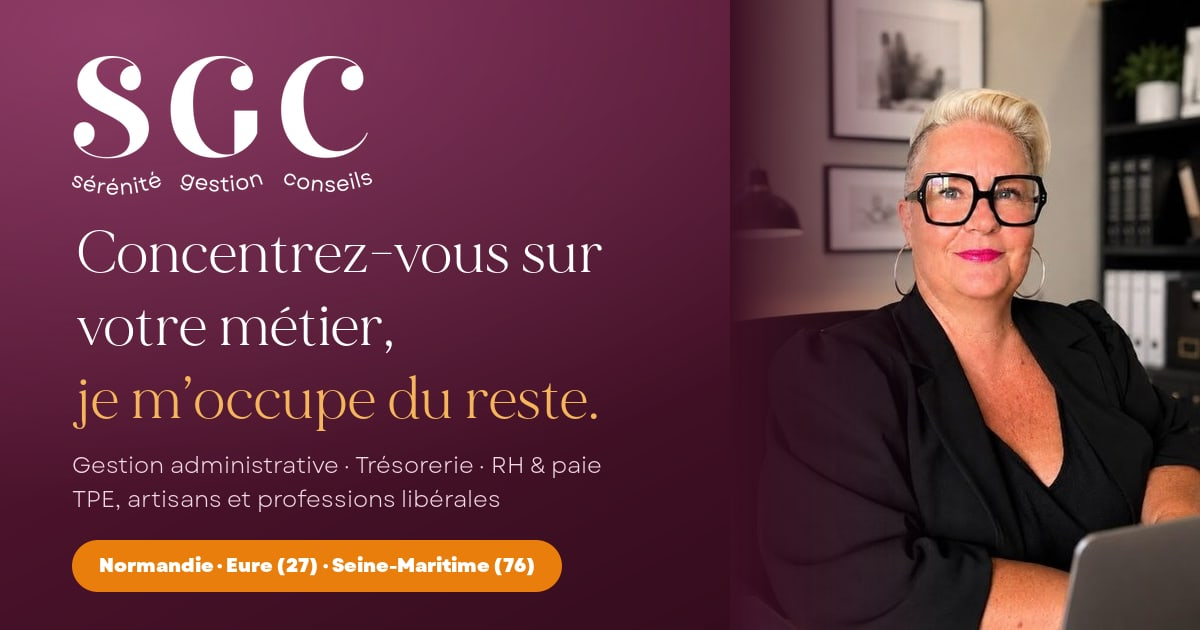
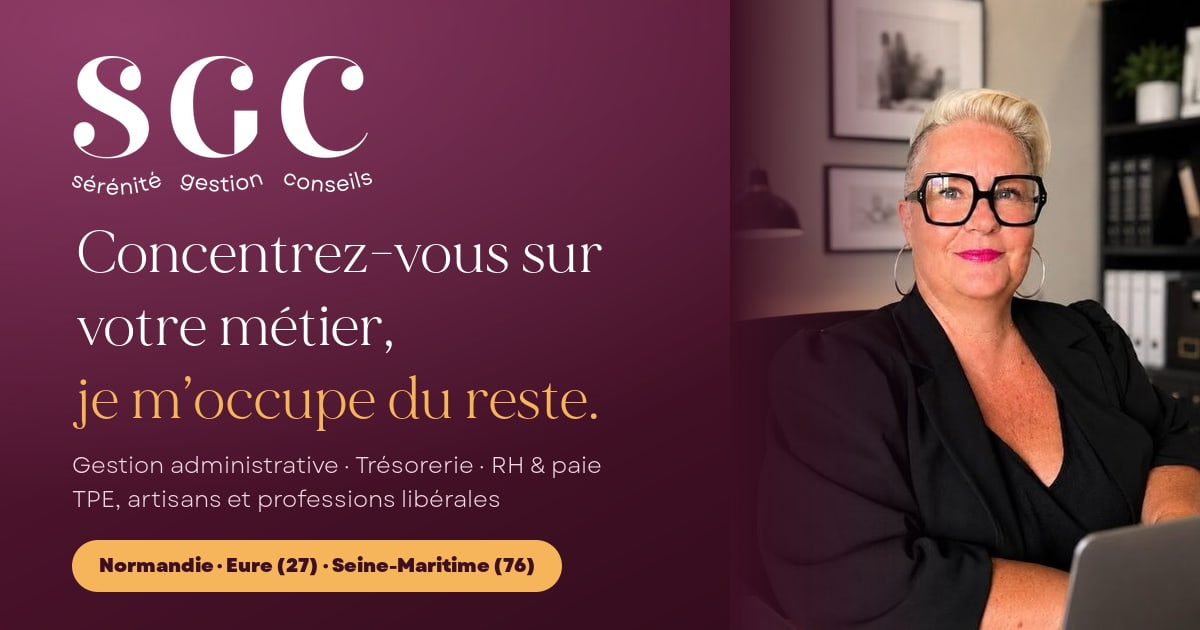
Charte adoucie : prune dominant, orange en touches, suppression du vert
- Boutons principaux en prune, variante abricot sur fonds sombres
- Halos, auroras et dégradés orange atténués (rose/abricot doux)
- Cas clients, coches et étiquettes : vert remplacé par prune/rose
- Boutons de partage monochromes prune
- Image de partage et README mis à jour

Changed region(s): [[0.0617, 0.8444, 0.4933, 0.9651]]

diff --git a/src/styles/global.css b/src/styles/global.css
@@ -76,7 +76,7 @@
   --terra-300: #f6b55b; /* abricot de la charte */
   --terra-200: #fbd9a8;
   --terra-100: #fdeedb;
-  --accent-text: #c96608; /* orange lisible pour les grands titres */
+  --accent-text: #b45a05; /* orange lisible pour les grands titres */
 
   /* Rose (décoration) */
   --rose-200: #f4c6e0;
@@ -92,8 +92,8 @@
   --muted: #76606c;
   --line: #f0e1d8;
   --line-soft: #f6ece5;
-  --success: #23855a;
-  --success-bg: #e5f4ec;
+  --success: #7b2550; /* prune : remplace le vert */
+  --success-bg: #fbe8f2; /* rose très clair */
   --danger: #b4322a;
   --danger-bg: #fbe9e7;
 
@@ -107,7 +107,7 @@
   --shadow-sm: 0 1px 2px rgb(42 9 22 / 0.05), 0 4px 14px -6px rgb(42 9 22 / 0.08);
   --shadow-md: 0 14px 34px -16px rgb(42 9 22 / 0.2);
   --shadow-lg: 0 28px 60px -28px rgb(97 25 58 / 0.38), 0 8px 20px -12px rgb(42 9 22 / 0.12);
-  --shadow-terra: 0 14px 30px -12px rgb(233 126 13 / 0.55);
+  --shadow-terra: 0 14px 30px -14px rgb(97 25 58 / 0.55);
 
   /* Mouvement */
   --ease-out: cubic-bezier(0.22, 1, 0.36, 1);
@@ -335,10 +335,10 @@
     letter-spacing: 0.005em;
     color: #fff;
     white-space: nowrap;
-    background: linear-gradient(135deg, var(--terra-500), var(--terra-700));
+    background: linear-gradient(135deg, var(--blue-600), var(--blue-800));
     box-shadow:
       var(--shadow-terra),
-      inset 0 1px 0 rgb(255 255 255 / 0.25);
+      inset 0 1px 0 rgb(255 255 255 / 0.18);
     transition:
       transform 0.45s var(--ease-out),
       box-shadow 0.45s var(--ease-out),
@@ -362,8 +362,8 @@
   .btn:hover {
     transform: translateY(-2px);
     box-shadow:
-      0 20px 36px -14px rgb(180 90 5 / 0.6),
-      inset 0 1px 0 rgb(255 255 255 / 0.25);
+      0 20px 36px -16px rgb(97 25 58 / 0.6),
+      inset 0 1px 0 rgb(255 255 255 / 0.18);
   }
   .btn:hover::after {
     transform: translateX(120%);
@@ -403,6 +403,19 @@
     color: var(--blue-700);
     border-color: var(--blue-700);
     box-shadow: 0 16px 30px -16px rgb(97 25 58 / 0.4);
+  }
+  /* Bouton doux (abricot) pour les fonds prune */
+  .btn--soft {
+    color: var(--blue-900);
+    background: var(--terra-300);
+    box-shadow: 0 14px 30px -16px rgb(0 0 0 / 0.5);
+  }
+  .btn--soft::after {
+    background: linear-gradient(110deg, transparent 30%, rgb(255 255 255 / 0.45) 50%, transparent 70%);
+  }
+  .btn--soft:hover {
+    background: #f8c47a;
+    box-shadow: 0 18px 34px -16px rgb(0 0 0 / 0.55);
   }
   .btn--sm {
     padding: 0.7rem 1.2rem;

diff --git a/README.md b/README.md
@@ -17,10 +17,10 @@ node scripts/og-image.mjs    # régénère l'image de partage (réseaux sociaux)
 
 | Couleur | Code | Usage sur le site |
 | --- | --- | --- |
-| Prune | `#61193a` | couleur principale : titres, mots importants, fonds sombres |
-| Orange | `#e97e0d` | accent : boutons, mots accentués des titres |
-| Rose | `#e581bc` | décorations, halos |
-| Abricot | `#f6b55b` | reflets, fonds doux |
+| Prune | `#61193a` | couleur dominante : titres, mots importants, boutons, fonds sombres |
+| Orange | `#e97e0d` | petites touches seulement (mots accentués des titres, puces) |
+| Rose | `#e581bc` | teintes douces : halos discrets, encadrés « résultat » |
+| Abricot | `#f6b55b` | boutons et badges sur fond prune, reflets |
 | Blanc / Noir | `#ffffff` / `#000000` | fonds et texte |
 
 - **Polices** : MADE Mirage (titres) et Garet (texte), dans `public/fonts/`.
